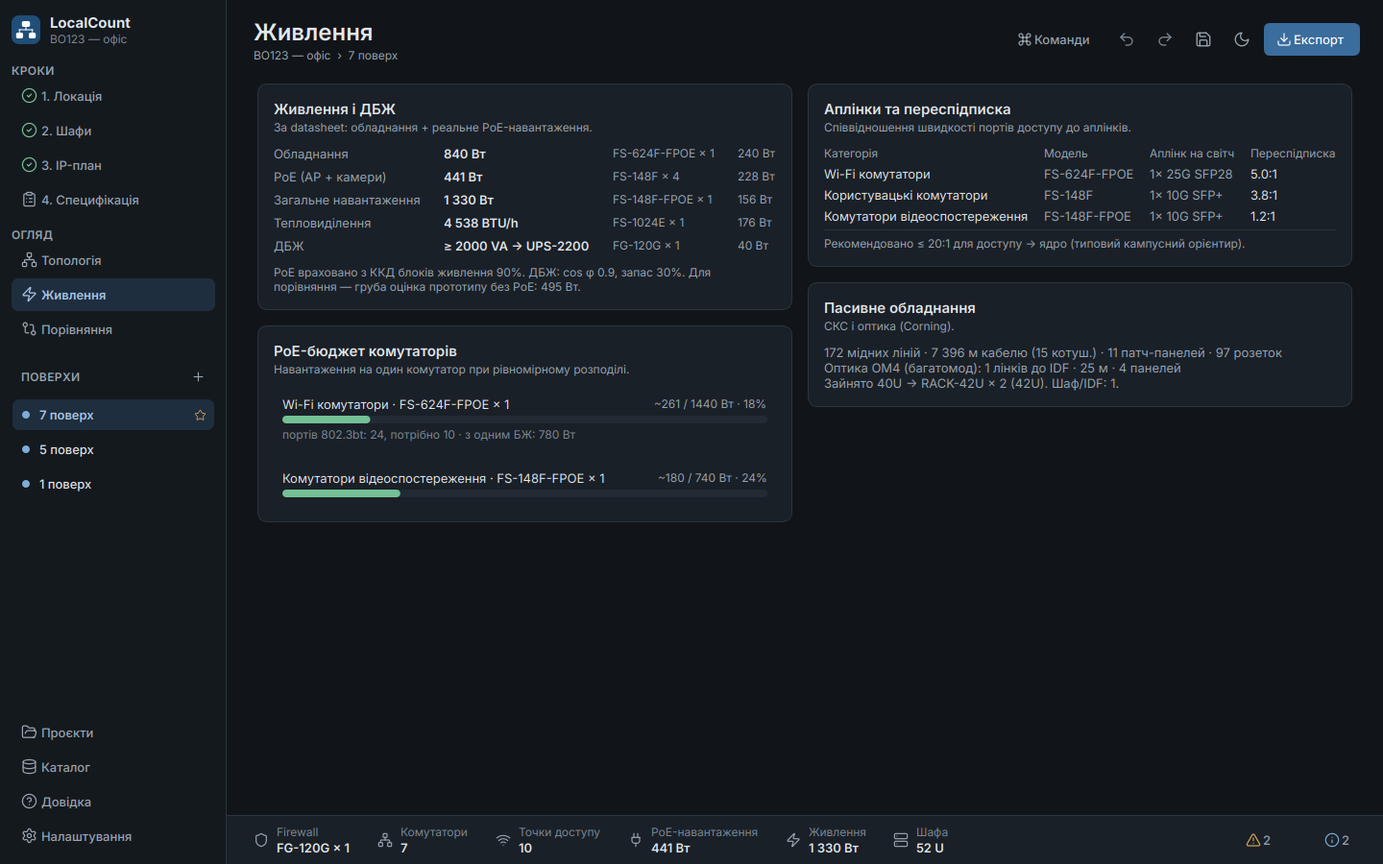
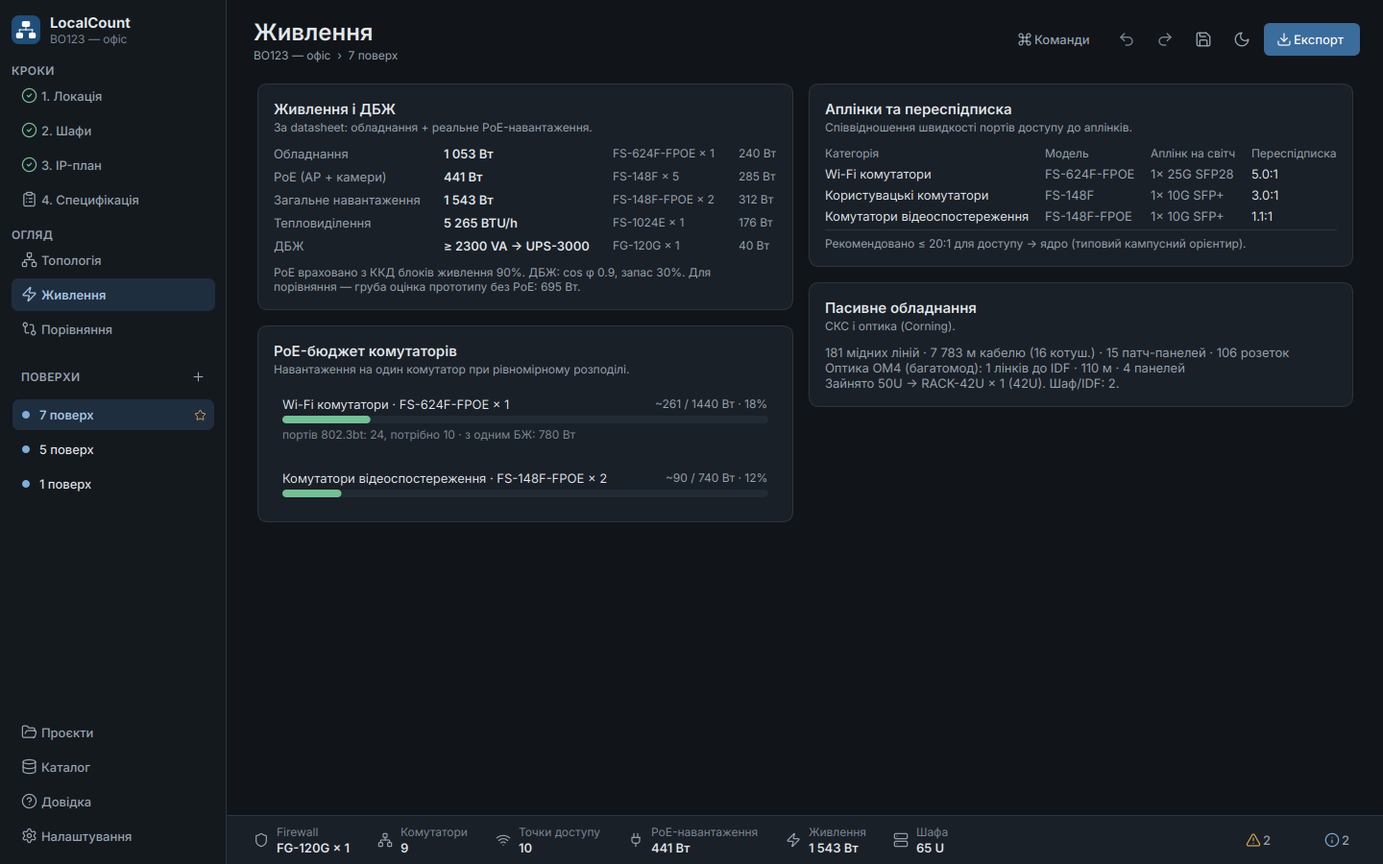
UI polish, docs: room cards, rack hint row, Mac install guide
- Room cards: numbered badge, ports in use per switch role (ASW/VSW/WSW), one column on
  narrow windows.
- Cabinets page: the how-to hint has its own quiet line instead of squeezing the toolbar;
  it mentions swapping.
- The 90 m warning only appears for a real long cable run (no more "None м").
- README: MacBook installation (start_mac.command, build_mac.sh, GitHub build), new features;
  help and architecture notes updated; screenshots regenerated.

diff --git a/sitesizer/gui/views/location.py b/sitesizer/gui/views/location.py
@@ -22,7 +22,7 @@ from PySide6.QtWidgets import (
 )
 
 from ...core.models import ADDON_KEYS, SiteResult
-from ...core.passive import drop_room, drop_room_inputs
+from ...core.passive import ROLE_CODES, drop_room, drop_room_inputs
 from ...core.presets import load_presets
 from ...core.sizing import addon_enabled, ap_model_for
 from ...exporters.diagram import SiteDiagram, style_from_tokens
@@ -196,7 +196,7 @@ class RoomBlock(QFrame):
         self.badge.setObjectName("RoomBadge")
         self.badge.setAlignment(Qt.AlignmentFlag.AlignCenter)
         self.badge.setFixedSize(px(24), px(24))
-        self.title = label("", "section")
+        self.title = label("", "subtitle")
         self.sub = label("", "faint")
         head.addWidget(self.badge)
         head.addWidget(self.title)
@@ -209,27 +209,21 @@ class RoomBlock(QFrame):
         grid = QGridLayout()
         grid.setHorizontalSpacing(px(14))
         grid.setVerticalSpacing(px(6))
+        self.grid = grid
+        self._cells: list[QHBoxLayout] = []
+        self._columns = 2
         self.fields: dict[str, Stepper] = {}
-        spots = {
-            "sockets": (0, 0),
-            "cameras": (0, 1),
-            "ajax": (1, 0),
-            "skud": (1, 1),
-            "other": (2, 0),
-        }
         for key in ROOM_FIELDS:
             st = Stepper(0, 1_000_000, width=124)
             st.setToolTip(tr(f"ui.room_{key}_tip"))
             st.valueChanged.connect(lambda v, k=key: self.changed.emit(self.index, k, int(v)))
             self.fields[key] = st
-            row, col = spots[key]
             cell = QHBoxLayout()
             cell.setSpacing(px(8))
             cell.addWidget(label(tr(f"ui.room_{key}")), 1)
             cell.addWidget(st)
-            grid.addLayout(cell, row, col)
-        grid.setColumnStretch(0, 1)
-        grid.setColumnStretch(1, 1)
+            self._cells.append(cell)
+        self._place_cells()
         lay.addLayout(grid)
         self.vsw_note = label(tr("ui.room_vsw_note"), "faint", wrap=True)
         lay.addWidget(self.vsw_note)
@@ -244,6 +238,7 @@ class RoomBlock(QFrame):
         self.combos: dict[str, QComboBox] = {}
         self.counts: dict[str, QLabel] = {}
         self.rows: dict[str, QWidget] = {}
+        self.loads: dict[str, QLabel] = {}
         t = current()
         switches = state.catalog.switches()
         tk = tokens()
@@ -256,9 +251,10 @@ class RoomBlock(QFrame):
             dot.setFixedSize(px(8), px(8))
             dot.setStyleSheet(f"background: {tk.categories.get(key, tk.text_faint)}; border-radius: {px(4)}px;")
             rl.addWidget(dot)
-            rl.addWidget(
-                label(t.pick(state.catalog.categories[key].short or state.catalog.categories[key].label), "muted")
-            )
+            cat_def = state.catalog.categories[key]
+            role = label(f"{t.pick(cat_def.short or cat_def.label)} · {ROLE_CODES[key]}", "muted")
+            role.setMinimumWidth(px(96))
+            rl.addWidget(role)
             combo = QComboBox()
             combo.setAccessibleName(tr("ui.room_model"))
             combo.setToolTip(tr("ui.room_model_tip"))
@@ -271,6 +267,10 @@ class RoomBlock(QFrame):
             combo.view().setMinimumWidth(px(460))
             combo.currentIndexChanged.connect(lambda _i, k=key: self._emit_model(k))
             rl.addWidget(combo, 1)
+            load = QLabel()
+            load.setObjectName("PortLoad")
+            rl.addWidget(load)
+            self.loads[key] = load
             n = label("", None)
             n.setMinimumWidth(px(34))
             n.setAlignment(Qt.AlignmentFlag.AlignRight | Qt.AlignmentFlag.AlignVCenter)
@@ -279,6 +279,21 @@ class RoomBlock(QFrame):
             self.sw_box.addWidget(row)
             self.combos[key], self.counts[key], self.rows[key] = combo, n, row
         self._loading = False
+
+    def _place_cells(self) -> None:
+        for cell in self._cells:
+            self.grid.removeItem(cell)
+        for i, cell in enumerate(self._cells):
+            self.grid.addLayout(cell, i // self._columns, i % self._columns)
+        for c in range(2):
+            self.grid.setColumnStretch(c, 1 if c < self._columns else 0)
+
+    def resizeEvent(self, e: QResizeEvent) -> None:
+        super().resizeEvent(e)
+        columns = 1 if self.width() < px(560) else 2
+        if columns != self._columns:
+            self._columns = columns
+            self._place_cells()
 
     def load(self, title: str, values: dict[str, int], models: dict[str, str], show_title: bool) -> None:
         self._loading = True
@@ -294,9 +309,22 @@ class RoomBlock(QFrame):
             combo.setCurrentIndex(j if j > 0 else 0)
         self._loading = False
 
-    def set_switches(self, auto: dict[str, str], placed: dict[str, dict[str, int]], summary: str) -> None:
-        """``auto``: calculated model per category; ``placed``: category -> {model: switches in this room}."""
+    def set_switches(
+        self,
+        auto: dict[str, str],
+        placed: dict[str, dict[str, int]],
+        summary: str,
+        ports: dict[str, tuple[int, int]] | None = None,
+    ) -> None:
+        """``auto``: calculated model per category; ``placed``: category -> {model: switches in this room};
+        ``ports``: category -> (ports in use, ports of the switches standing here)."""
         self._loading = True
+        for key, load in self.loads.items():
+            used, cap = (ports or {}).get(key, (0, 0))
+            load.setText(tr("ui.room_ports", used=used, cap=cap) if cap else "")
+            load.setProperty("full", "true" if cap and used / cap > 0.9 else "false")
+            load.style().unpolish(load)
+            load.style().polish(load)
         any_row = False
         for key in SWITCH_KEYS:
             here = placed.get(key, {})
@@ -919,13 +947,22 @@ class LocationView(QWidget):
                 if it.group in SWITCH_KEYS and not it.extra:
                     by = placed.setdefault(plan.room, {}).setdefault(it.group, {})
                     by[it.model] = by.get(it.model, 0) + 1
-        auto = {k: result.categories[k].model or self.state.catalog.categories[k].base for k in SWITCH_KEYS}
+        cats = self.state.catalog.categories
+        auto = {k: result.categories[k].model or cats[k].base for k in SWITCH_KEYS}
+        rooms = result.counts.rooms
         for i, block in enumerate(self._room_blocks):
             here = placed.get(i, {})
             total = sum(n for by in here.values() for n in by.values())
             racks = sum(1 for p in result.rack.plans if p.room == i)
             summary = tr("ui.room_summary", sw=total, racks=racks) if total or racks else ""
-            block.set_switches(auto, here, summary)
+            ports: dict[str, tuple[int, int]] = {}
+            if i < len(rooms):
+                rc = rooms[i]
+                used = {"access_switch": rc.sockets, "camera_switch": rc.cameras + rc.vsw_extra, "wifi_switch": rc.aps}
+                for key in SWITCH_KEYS:
+                    n = sum(here.get(key, {}).values())
+                    ports[key] = (used[key], n * cats[key].endpoints_per_switch)
+            block.set_switches(auto, here, summary, ports)
 
     def _fold_floor_counts(self, d: dict[str, Any]) -> None:
         """Older files keep the main room's sockets/cameras on the floor: move them into ``rooms[0]``."""

diff --git a/sitesizer/gui/views/racks.py b/sitesizer/gui/views/racks.py
@@ -18,6 +18,7 @@ from PySide6.QtWidgets import (
     QComboBox,
     QDialog,
     QHBoxLayout,
+    QLabel,
     QLineEdit,
     QMenu,
     QScrollArea,
@@ -155,8 +156,7 @@ class RacksView(QWidget):
         self.reset_btn = button(tr("rk.reset"), "ghost", "refresh-ccw", tr("rk.reset_tip"))
         self.reset_btn.clicked.connect(self.reset_layout)
         bar.addWidget(self.reset_btn)
-        self.hint = label(tr("rk.hint"), "caption", wrap=True)
-        bar.addWidget(self.hint, 1)
+        bar.addStretch(1)
         zoom_out = icon_button("zoom-out", tr("ui.zoom_out"))
         zoom_out.clicked.connect(lambda: self.editor.set_zoom(self.editor.zoom / 1.15))
         zoom_in = icon_button("zoom-in", tr("ui.zoom_in"))
@@ -168,6 +168,15 @@ class RacksView(QWidget):
         self.chips_box = QWidget()
         self.chips = FlowLayout(self.chips_box, spacing=6)
         root.addWidget(self.chips_box)
+        # how to work with the cabinets: one quiet line under the rooms, not squeezed between buttons
+        hint_row = QHBoxLayout()
+        hint_row.setSpacing(px(6))
+        self.hint_icon = QLabel()
+        self.hint_icon.setPixmap(icons.pixmap("info", px(14), "text_faint"))
+        self.hint = label(tr("rk.hint"), "faint", wrap=True)
+        hint_row.addWidget(self.hint_icon, 0, Qt.AlignmentFlag.AlignTop)
+        hint_row.addWidget(self.hint, 1)
+        root.addLayout(hint_row)
 
         body = QHBoxLayout()
         body.setSpacing(px(16))
@@ -320,6 +329,7 @@ class RacksView(QWidget):
 
         state.resultChanged.connect(when_shown(self, self.on_result))
         theme_manager.changed.connect(self._redraw)
+        theme_manager.changed.connect(lambda: self.hint_icon.setPixmap(icons.pixmap("info", px(14), "text_faint")))
         if state.result:
             self.on_result(state.result)
 

diff --git a/sitesizer/core/sizing.py b/sitesizer/core/sizing.py
@@ -1496,14 +1496,16 @@ def _general_checks(ctx: _Ctx, bom: list[BomLine], rack: RackSummary) -> None:
 
     if ctx.site.reserve:
         ctx.check(Severity.INFO, "RESERVE", "check.reserve", "", "", pct=round((ctx.counts.reserve_factor - 1) * 100))
-    if rack.idf_count > 1:
+    run = ctx.site.max_cable_run_m
+    if rack.idf_count > 1 and run and run > ctx.rules.copper_max_m and not ctx.site.closets:
+        # only when the rooms were derived from the cable run; rooms the user entered need no warning
         ctx.check(
             Severity.WARNING,
             "IDF",
             "check.idf",
             "check.idf_hint",
             "rack",
-            run=ctx.site.max_cable_run_m,
+            run=run,
             limit=ctx.rules.copper_max_m,
             n=t.plural("plural.closets", rack.idf_count),
         )

diff --git a/sitesizer/gui/theme.py b/sitesizer/gui/theme.py
@@ -381,6 +381,12 @@ QFrame#Card, QWidget#Card {{
     background: {t.surface}; border: 1px solid {t.border}; border-radius: {r_card}px;
 }}
 QFrame#SoftCard {{ background: {t.surface_alt}; border: none; border-radius: {r_card}px; }}
+QLabel#RoomBadge {{
+    background: {t.primary}; color: {t.primary_text}; border-radius: {px(12)}px;
+    font-size: {px(ty.caption)}px; font-weight: 700;
+}}
+QLabel#PortLoad {{ color: {t.text_faint}; font-size: {px(ty.caption)}px; }}
+QLabel#PortLoad[full="true"] {{ color: {t.warning}; font-weight: 600; }}
 QFrame#Divider {{ background: {t.border}; max-height: 1px; min-height: 1px; border: none; }}
 QFrame#VDivider {{ background: {t.border}; max-width: 1px; min-width: 1px; border: none; }}
 QScrollArea, QScrollArea > QWidget > QWidget {{ background: transparent; border: none; }}

diff --git a/README.md b/README.md
@@ -10,27 +10,40 @@ The UI is Ukrainian by default, with a full English version (Settings → Langua
 
 ## Швидкий старт (для колег)
 
-1. Запустіть `LocalCount.exe`.
+1. Запустіть `LocalCount.exe` (Windows) або `LocalCount.app` (Mac, див. нижче).
 2. **Локація і поверхи:** проєкт — це одна локація, а кожен запис у боковій панелі «Поверхи» — поверх
    (`+` додає наступний). Код (напр. `BO123`), ID (другий октет, напр. `57` → `10.57.x.x`), рівень і IP-план
    спільні для всіх поверхів; на кожному поверсі — свої розетки, камери, зони Wi-Fi і шафи.
    **Фаєрвол один на локацію:** він рахується на комутатори всіх поверхів і стоїть на поверсі з перемикачем
    «Фаєрвол на цьому поверсі». Інші поверхи з'єднуються з ним оптичною патч-панеллю.
+   **Кінцеві пристрої вводяться на кожну комутаційну:** поле «Комутаційних» задає їх кількість, і для кожної —
+   Ethernet-розетки, камери, **Ajax, СКУД та «Інше»** (вони займають порти відеосвічів VSW). Wi-Fi зона
+   вказує, з якої комутаційної живиться. Світчі комутаційної стоять у її шафах. У блоці комутаційної видно,
+   **які світчі в ній стоять** і скільки портів зайнято; модель кожної ролі можна **замінити**, і специфікація,
+   живлення та шафи перерахуються.
 3. **Шафи:** шафи стоять у комутаційних кімнатах. Перемикач угорі показує «Усі шафи» або шафи однієї
    кімнати; «+ Комутаційна» додає кімнату (комутатори розподіляються й на неї, оптика рахується сама),
    у картці кімнати її можна перейменувати чи видалити. «Додати шафу» додає шафу у вибрану кімнату.
-   Пристрої перетягуються мишею; **Ctrl+клік** виділяє кілька й вони перетягуються разом (Ctrl+A — уся шафа).
+   Пристрої перетягуються мишею; **кинути пристрій на інший — вони поміняються місцями** (синя підсвітка ⇄).
+   **Ctrl+клік** виділяє кілька й вони перетягуються разом (Ctrl+A — уся шафа).
    Пристрою можна дати власну назву. **Видалити можна будь-що** (Delete): фаєрвол, комутатори, ДБЖ, ПП.
    Специфікація будується від того, що лишилося в шафах, а «Повернути видалене» поверне все назад.
    **Ctrl+C** копіює назви вибраних пристроїв (кожна з нового рядка), «Копіювати назви» — усі пристрої шаф.
    Стандарт шафи: Wi-Fi комутатор — 1 ПП + 1 органайзер; інші — 2 ПП + 2 органайзери (ПП · органайзер ·
    комутатор · органайзер · ПП); оптична ПП — 1 органайзер, по одній на кожному кінці лінку
-   (до фаєрвола з іншого поверху та між шафами однієї комутаційної). DAC: 1 м — один на 2 комутатори
+   (до фаєрвола з іншого поверху та між шафами однієї комутаційної). Оптика Corning: до шафи з фаєрволом —
+   кабель на **24 волокна** (24-волоконна ПП), між іншими шафами — на **12 або 6** (Розширений режим →
+   «Волокон між шафами»). DAC: 1 м — один на 2 комутатори
    поверху, 3 м — один на 10 (10 комутаторів → 5 + 1). Розетки в специфікацію не додаються.
 4. **IP-план** будується сам з ID локації; номери, назви й маски VLAN змінюються подвійним кліком.
 5. **Специфікація:** «Уся локація» — сума поверхів; на «Цей поверх» можна змінити кількість або ціну
-   (подвійний клік) і додати роботи.
-6. **Експорт (`Ctrl+E`)** — уся локація: «Слаботрумка», схема шаф по поверхах, IP, ціни, PDF, картинки.
+   (подвійний клік) і додати роботи. Права кнопка → «Копіювати найменування / моделі / коди», `Ctrl+C` —
+   найменування вибраного рядка. В IP-плані `Ctrl+C` копіює вибрані рядки.
+6. **Експорт (`Ctrl+E`)** — уся локація: «Слаботрумка» (лише позиції, яких більше нуля), схема шаф по поверхах,
+   IP, ціни, PDF, картинки.
+
+Колесо миші лише гортає сторінку і ніколи не змінює числа чи списки: значення вписуються з клавіатури або
+кнопками `−`/`+` (стрілки ↑/↓ теж працюють).
 
 ### Пасивка для готових шаф
 
@@ -68,6 +81,47 @@ python passive_count.py                                    # запитає ша
 Коли вийде нова версія: у тій самій папці `git pull`, потім знову `.\build.ps1` (програму перед цим закрийте).
 Ваш каталог і налаштування зберігаються окремо, в `%APPDATA%\LocalCount\LocalCount\`, і не губляться.
 
+## Встановлення (MacBook, macOS 12+, Apple Silicon або Intel)
+
+**1. Python і Git.** Відкрийте «Термінал» (Cmd+Пробіл → «Terminal»):
+
+```bash
+xcode-select --install          # Git і інструменти розробника (якщо ще не стоять)
+```
+
+Python 3.11+ поставте з [python.org](https://www.python.org/downloads/macos/) (macOS 64-bit universal2
+installer) **або** через [Homebrew](https://brew.sh): `brew install python@3.12`. Вбудований у macOS
+`python3` (3.9) не підходить.
+
+**2. Завантажте програму:**
+
+```bash
+cd ~/Documents
+git clone https://github.com/KravAvfv/Scripy_for_count_location.git LocalCount
+cd LocalCount
+```
+
+**3а. Найпростіше — запуск без збирання.** Двічі клацніть `start_mac.command` у Finder (або в Терміналі:
+`./start_mac.command`). Перший запуск сам створить `.venv` і поставить бібліотеки (~2 хв, потрібен інтернет),
+наступні — відразу відкривають програму. Якщо macOS пише «не вдалося перевірити розробника»: правою
+кнопкою по файлу → «Відкрити» → «Відкрити».
+
+**3б. Або зберіть справжній `LocalCount.app`:**
+
+```bash
+./build_mac.sh                  # тести + збирання, ~5 хв
+open dist/LocalCount.app
+```
+
+Перетягніть `dist/LocalCount.app` у «Програми» (Applications). Застосунок не підписаний Apple, тому якщо
+macOS його блокує: правою кнопкою → «Відкрити», або `xattr -cr /Applications/LocalCount.app`.
+Без Mac під рукою: GitHub → **Actions → Build LocalCount → Run workflow** збирає `LocalCount-mac-arm64`
+(M1–M4), `LocalCount-mac-x86_64` (Intel) і Windows `.exe` — архіви з'являються внизу сторінки запуску.
+
+**Оновлення:** `git pull`, потім знову `./start_mac.command` (він сам доставить нові бібліотеки) або
+`./build_mac.sh`. Налаштування й каталог лежать у `~/Library/Application Support/LocalCount/` і не губляться.
+На Mac гарячі клавіші ті самі, тільки з `⌘` замість `Ctrl` (`⌘K`, `⌘S`, `⌘E`…).
+
 ## Features
 
 **v2 (company workflow):** site code / location ID / floors · cabinets in the house pattern
@@ -97,6 +151,9 @@ import (1C codes, names, two prices) · datasheet links · no customer justifica
   PNG/SVG, a *Racks* sheet in Excel (table + picture) and a section in the PDF.
 - **Extended mode** — VLAN plan carved from a base network (gateway + DHCP pool), transceivers/DAC, cabling,
   rack elevation and size, UPS sizing with the real PoE load, licences, spares, FortiManager/FortiAnalyzer.
+- **Telecom rooms** — sockets, cameras, Ajax, access control and other devices per room (the last three take
+  video switch ports); each room's switches stand in its cabinets; the switch model of every role can be replaced
+  per room. Fibre: 24-fibre Corning cable to the firewall cabinet, 12 or 6 fibres between other cabinets.
 - **Floors of one location** — a project is one location and its entries are floors (own sockets, cameras,
   Wi-Fi, cabinets); code, ID, tier and IP plan are shared. One firewall (and core) per location, sized for every
   floor and placed on the firewall floor; other floors get an optical patch panel to it. The specification and
@@ -160,13 +217,14 @@ py -3 -m venv .venv; .\.venv\Scripts\pip install -r requirements.txt; .\.venv\Sc
 ```
 
 The build uses PyInstaller with `packaging/sitesizer.spec` (one file, windowed, app icon and Windows version info;
-unused Qt modules are excluded). On Linux/macOS use `./build.sh`.
+unused Qt modules are excluded). On Linux use `./build.sh`; on a Mac `./build_mac.sh` builds `LocalCount.app`
+(see the Mac section above). `.github/workflows/build.yml` builds both on GitHub when started by hand.
 
 ## Development
 
 ```powershell
 pip install -r requirements-dev.txt
-$env:QT_QPA_PLATFORM="offscreen"; python -m pytest      # 160+ tests: engine, golden, IP, exporters, template import, GUI
+$env:QT_QPA_PLATFORM="offscreen"; python -m pytest      # 190+ tests: engine, golden, IP, exporters, template import, GUI
 ruff check sitesizer tests; ruff format sitesizer tests
 mypy sitesizer
 python tools\screenshots.py docs\screenshots            # regenerate screenshots (light + dark)
@@ -196,7 +254,9 @@ User data (catalog edits, settings, logs) lives in `%APPDATA%\LocalCount\LocalCo
 
 - Some catalog values come from third-party sources only (FS-448E family, FS-1024E power) and are flagged
   🟡 in the app and in RESEARCH.md. Confirm them on support.fortinet.com before quoting.
-- Each switch category uses one model for the whole site (no mixed FS-124G + FS-624F in the same category).
+- The switch model can be replaced per telecom room; within one room a role uses one model.
+- The 6- and 24-fibre Corning cable part numbers (`006…`, `024…`) follow Corning's numbering scheme and are not
+  verified against a datasheet — check them with the distributor (or import your template).
 - PDF tables can break between pages in the middle of a long row.
 - Moving a switch between the main room and a remote closet (IDF) by hand does not re-plan the fibre backbone;
   fibre is sized from the automatic closets.
@@ -204,5 +264,5 @@ User data (catalog edits, settings, logs) lives in `%APPDATA%\LocalCount\LocalCo
   (Catalog → Import Excel template) to make codes and prices authoritative.
 - FortiSwitch 448E / 1024E have no stand-alone datasheet on fortinet.com any more; their links point to the
   FortiSwitch ordering guide.
-- The Windows `.exe` has to be built on Windows (`build.ps1`). The PyInstaller spec was validated by building
-  and launching a Linux binary.
+- The Windows `.exe` has to be built on Windows (`build.ps1`) and the Mac app on a Mac (`build_mac.sh`), or both
+  by the GitHub workflow. The PyInstaller spec was validated by building and launching a Linux binary.
